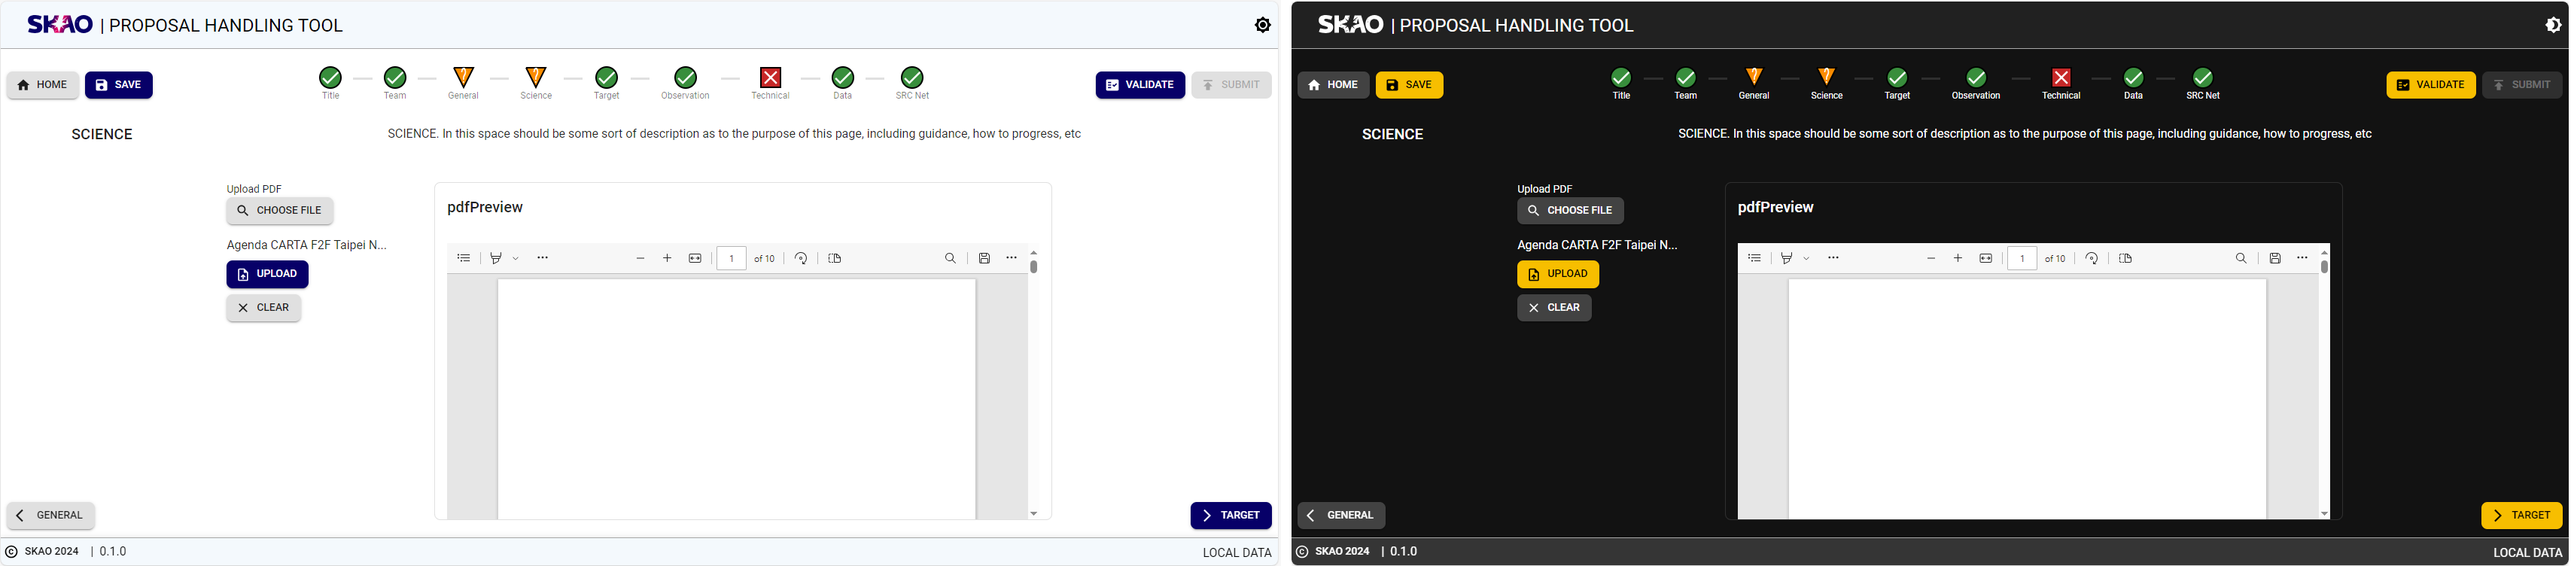
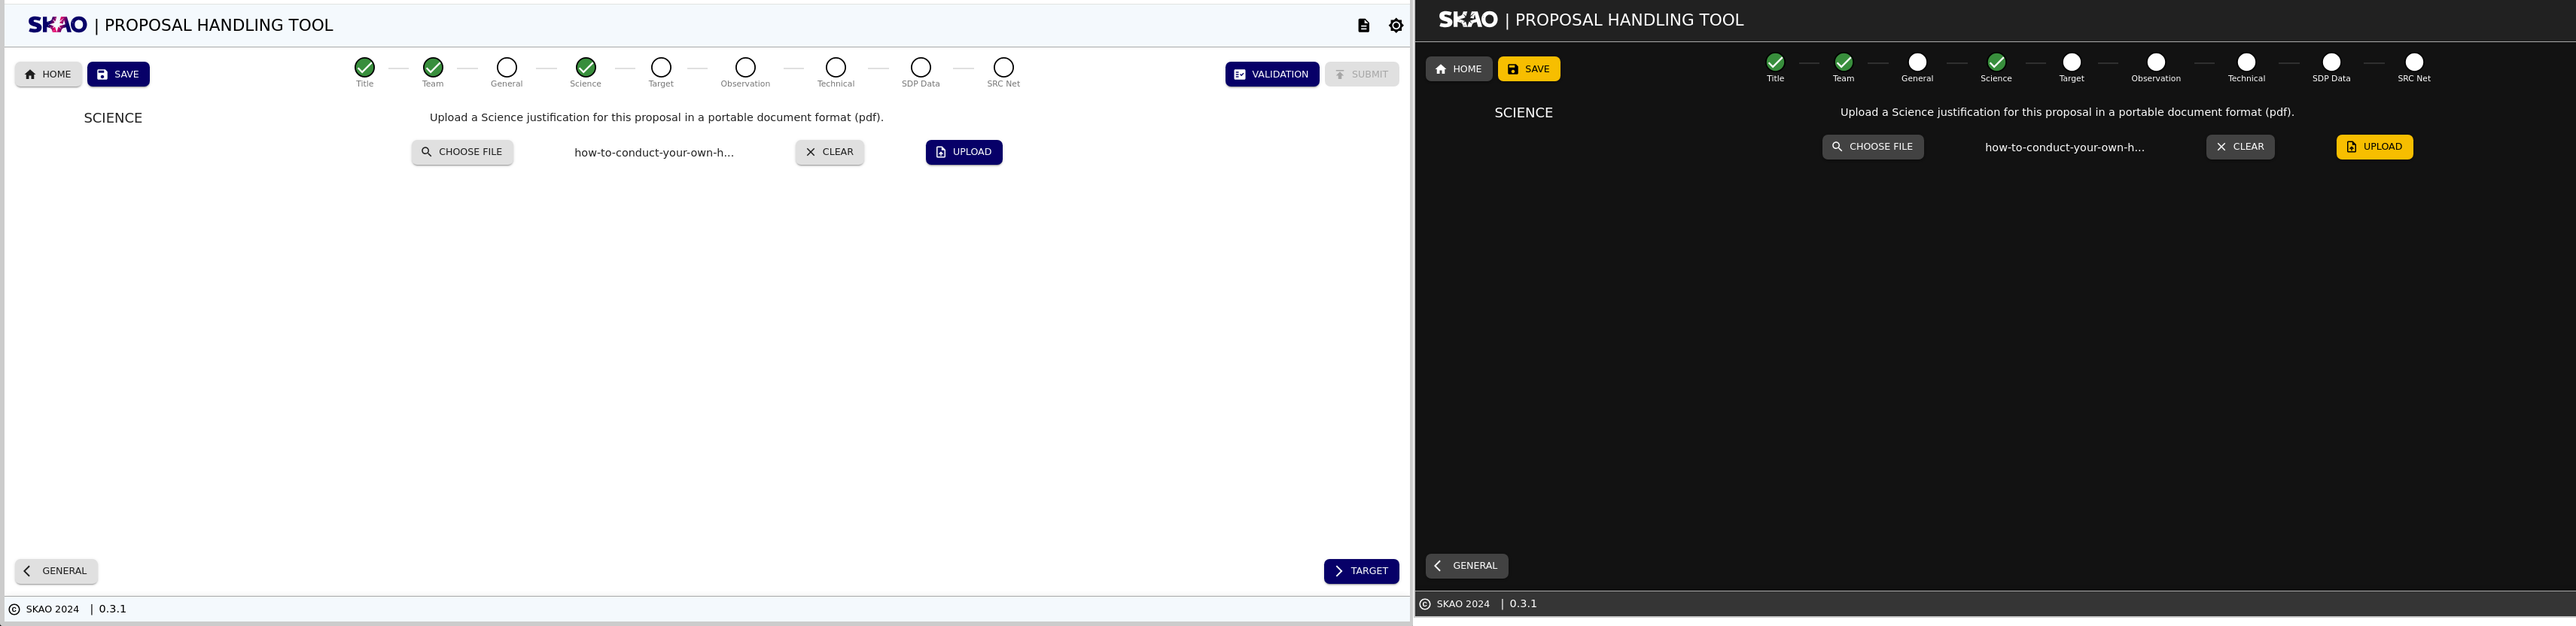
STAR-318 : Updated documentation

diff --git a/docs/src/SciencePage.rst b/docs/src/SciencePage.rst
@@ -1,11 +1,7 @@
-Science and Technical Justification Page
-~~~~~~~~~~~~~~~~~~~~~~~~~~~~~~~~~~~~~~~~
+Science and Technical Justification Pages
+~~~~~~~~~~~~~~~~~~~~~~~~~~~~~~~~~~~~~~~~~
 
-The "Science Page" (see :numref:`Figure %s <sciencepage>`) allows you to upload a ascience justification in a portable document format (pdf).
-
-
-
-
+The "Science Page" (see :numref:`Figure %s <sciencepage>`) allows you to upload a science justification in a portable document format (pdf).
 
 .. _sciencepage:
 
@@ -15,26 +11,34 @@ The "Science Page" (see :numref:`Figure %s <sciencepage>`) allows you to upload 
 
    Science Justification page
 
+.. note:: 
+
+   - Technical Page looks almost identical to the Science Justification page and has identical functionality.
+
+
+
+.. _addobs:
+
 Layout and Navigation
 =====================
 
-The Science Page has a clear and consistent layout:
+The Science & Technical Pages have clear and consistent options:
 
-- Upload area: A designated section with an "Upload PDF" button that allows you to select a pdf file form your local device.
-- Download area: Once the file is uploaded, you can download it if you choose.  
-- A preview area: Functionality not available yet.
-
-
+- 'Choose' button: Allows for the selection of a PDF file from the local device.
+- 'Clear' button: Visible once a file has been chosen, when clicked clears the selection
+- 'Upload' button: Visible once a file has been chosen, when clicked the file is uploaded to the proposal and stored 
+- 'Download' button: A file that has been uploaded is able to also be downloaded if this is clicked 
+- 'Preview' button: A file that has been uploaded is able to be previewed in a pop-up window when this is clicked.
 
 
 Key Information and Actions
 ===========================
 
-- Upload your scientific justification document in PDF format.
-- Remember, only one PDF upload is allowed.
+- Upload your Technical and scientific justification document in PDF format.
+- Remember, only one PDF upload is allowed for each.
 
 Next Steps
 ==========
 
-After successfully uploading and previewing your scientific justification, click "Target" or any other page to proceed to the next page.
+After successfully uploading and previewing your technical or scientific justification, click "Target" or any other page to proceed to the next page.
 
